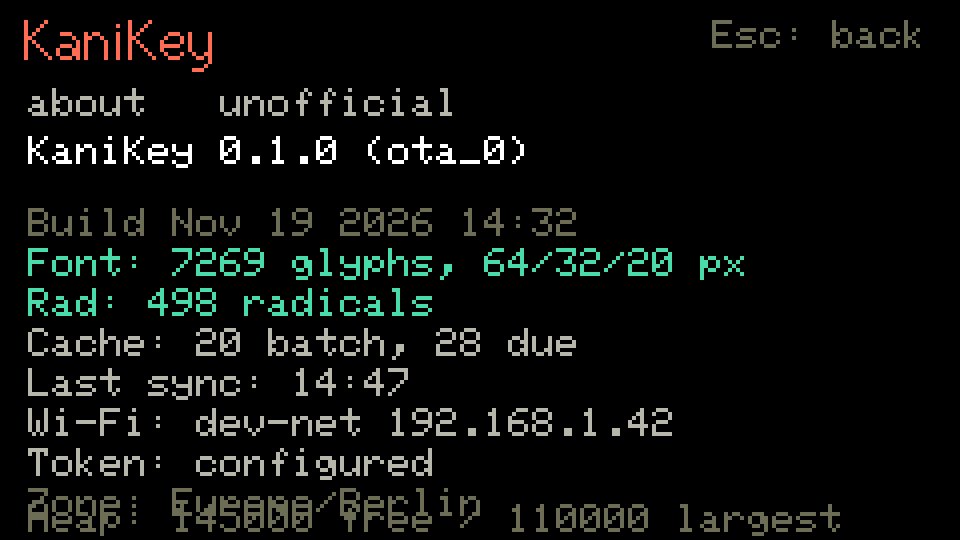
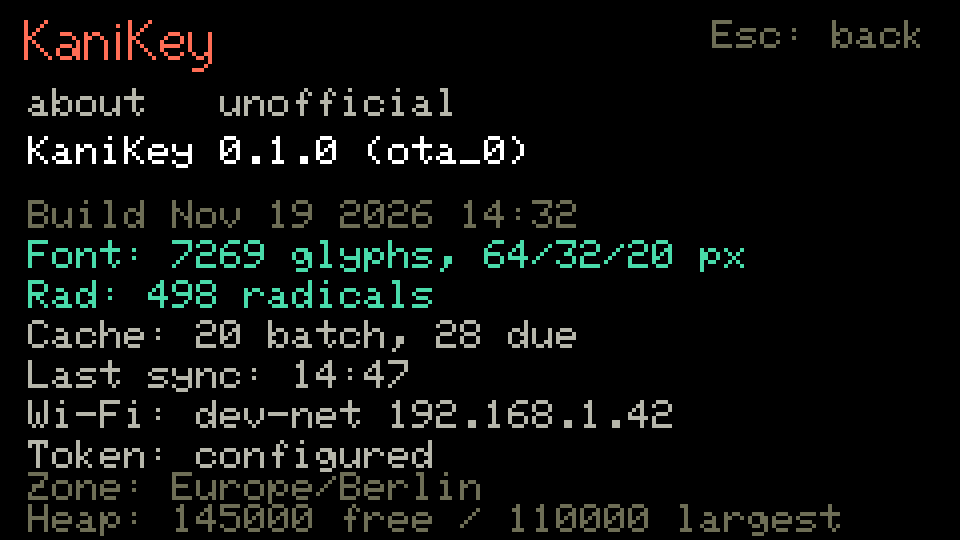
fix: space the About zone and heap lines
Zone sat at y=122 and Heap at y=126, overlapping the 8 px font. Shift the About block up 2 px (50..126), regenerate the About/overview mockups and keep the renderer check green.

Changed region(s): [[0.0312, 0.3556, 0.7812, 0.9481], [0.5312, 0.5926, 0.5938, 0.6815]]

diff --git a/firmware/src/app/SettingsController.cpp b/firmware/src/app/SettingsController.cpp
@@ -1067,31 +1067,31 @@ void drawAbout() {
                  state().ota.gOtaState.badgeVersion.c_str());
     else
         snprintf(build, sizeof build, "Build %s %s", __DATE__, __TIME__);
-    view.lines.push_back({build, state().ota.gOtaState.badgeVersion.empty() ? kFaint : kAccentHi, 52});
+    view.lines.push_back({build, state().ota.gOtaState.badgeVersion.empty() ? kFaint : kAccentHi, 50});
     view.lines.push_back({std::string("Font: ") + state().storage.gFontPack.statusLine(),
-                          state().storage.gFontPack.ready() ? kOk : kWarn, 62});
+                          state().storage.gFontPack.ready() ? kOk : kWarn, 60});
     view.lines.push_back({std::string("Rad: ") + state().storage.gRadicalPack.statusLine(),
-                          state().storage.gRadicalPack.ready() ? kOk : kWarn, 72});
+                          state().storage.gRadicalPack.ready() ? kOk : kWarn, 70});
     char cache[64];
     snprintf(cache, sizeof cache, "Cache: %u batch, %u due",
              static_cast<unsigned>(state().cache.gCachedBatchCount),
              static_cast<unsigned>(state().session.gDueReviews));
-    view.lines.push_back({cache, kDim, 82});
+    view.lines.push_back({cache, kDim, 80});
     view.lines.push_back({std::string("Last sync: ") + state().session.gSyncClock +
                               (state().cache.gOffline ? " (offline)" : ""),
-                          state().cache.gOffline ? kWarn : kDim, 92});
+                          state().cache.gOffline ? kWarn : kDim, 90});
     std::string wifi = kk::DevWifi::hasSaved() ? kk::DevWifi::savedSsid().c_str()
                                                 : "not configured";
     if (kk::DevWifi::connected()) {
         wifi += " ";
         wifi += kk::DevWifi::ip().c_str();
     }
-    view.lines.push_back({std::string("Wi-Fi: ") + wifi, kDim, 102});
+    view.lines.push_back({std::string("Wi-Fi: ") + wifi, kDim, 100});
     view.lines.push_back({std::string("Token: ") + (kk::DevToken::has() ? "configured" : "missing"),
-                          kk::DevToken::has() ? kDim : kWarn, 112});
+                          kk::DevToken::has() ? kDim : kWarn, 110});
     std::string zone = kk::settingsTimeZoneName().c_str();
     if (zone.empty()) zone = kk::settingsTimeZoneRule().c_str();
-    view.lines.push_back({std::string("Zone: ") + zone, kFaint, 122});
+    view.lines.push_back({std::string("Zone: ") + zone, kFaint, 118});
     char heap[48];
     snprintf(heap, sizeof heap, "Heap: %u free / %u largest",
              static_cast<unsigned>(heap_caps_get_free_size(MALLOC_CAP_INTERNAL)),

diff --git a/tools/mockups/render.py b/tools/mockups/render.py
@@ -739,14 +739,14 @@ def screen_about() -> Image.Image:
     text(im, 7, 34, "KaniKey 0.1.0 (ota_0)", 1, 1, TEXT)
 
     lines = [
-        ("Build Nov 19 2026 14:32", FAINT, 52),
-        ("Font: 7269 glyphs, 64/32/20 px", OK, 62),
-        ("Rad: 498 radicals", OK, 72),
-        ("Cache: 20 batch, 28 due", DIM, 82),
-        ("Last sync: 14:47", DIM, 92),
-        ("Wi-Fi: dev-net 192.168.1.42", DIM, 102),
-        ("Token: configured", DIM, 112),
-        ("Zone: Europe/Berlin", FAINT, 122),
+        ("Build Nov 19 2026 14:32", FAINT, 50),
+        ("Font: 7269 glyphs, 64/32/20 px", OK, 60),
+        ("Rad: 498 radicals", OK, 70),
+        ("Cache: 20 batch, 28 due", DIM, 80),
+        ("Last sync: 14:47", DIM, 90),
+        ("Wi-Fi: dev-net 192.168.1.42", DIM, 100),
+        ("Token: configured", DIM, 110),
+        ("Zone: Europe/Berlin", FAINT, 118),
         ("Heap: 145000 free / 110000 largest", FAINT, 126),
     ]
     for label, color, y in lines:
